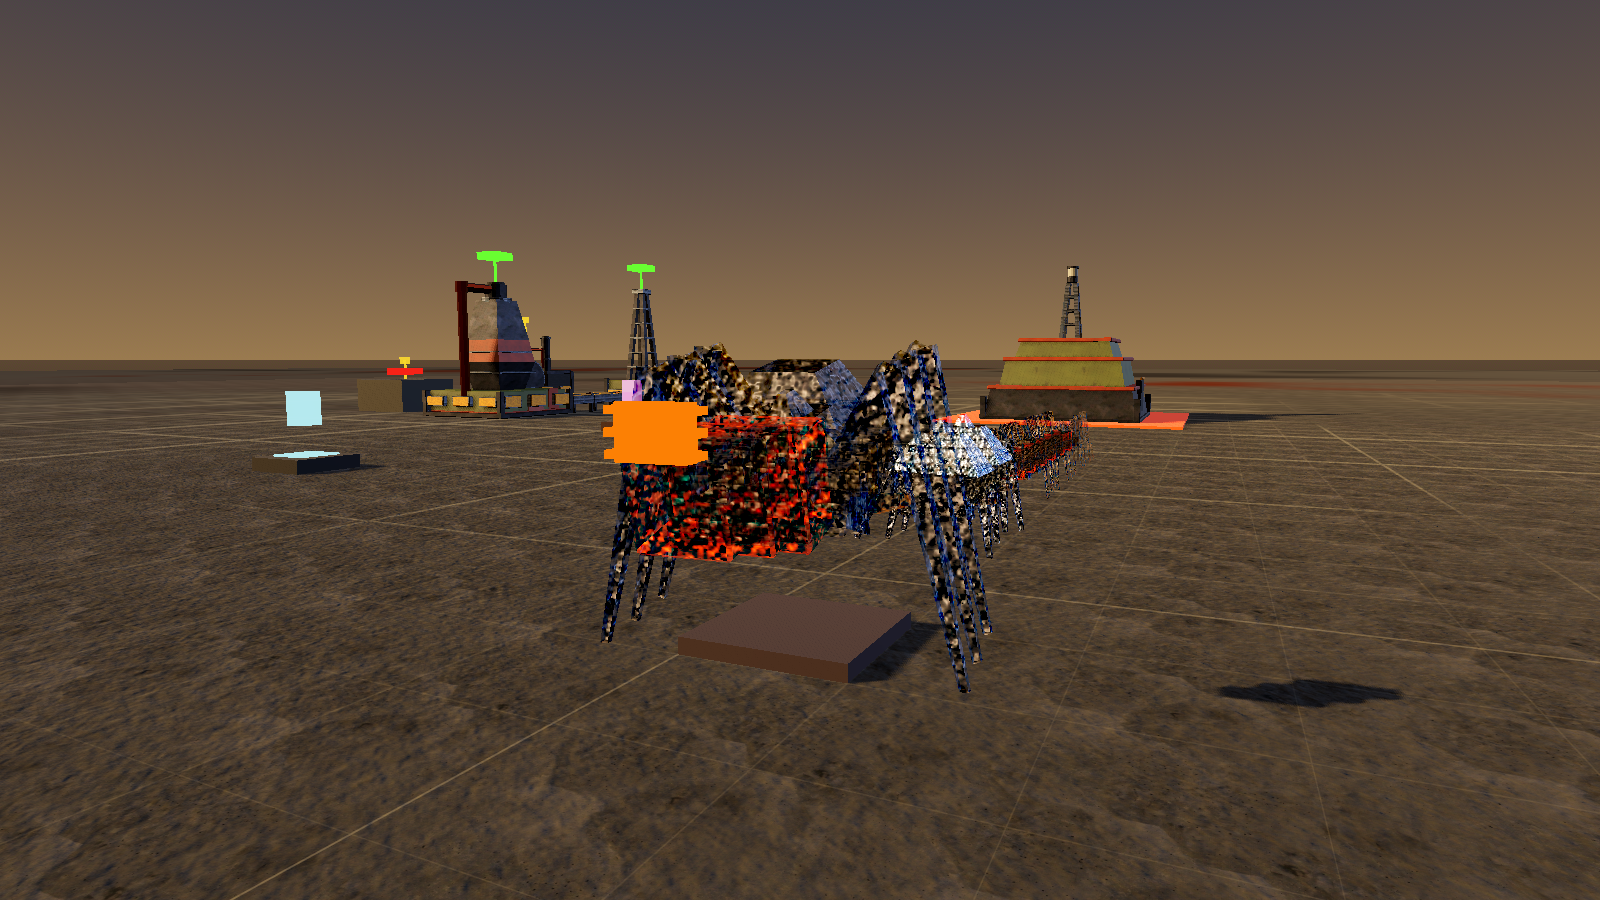
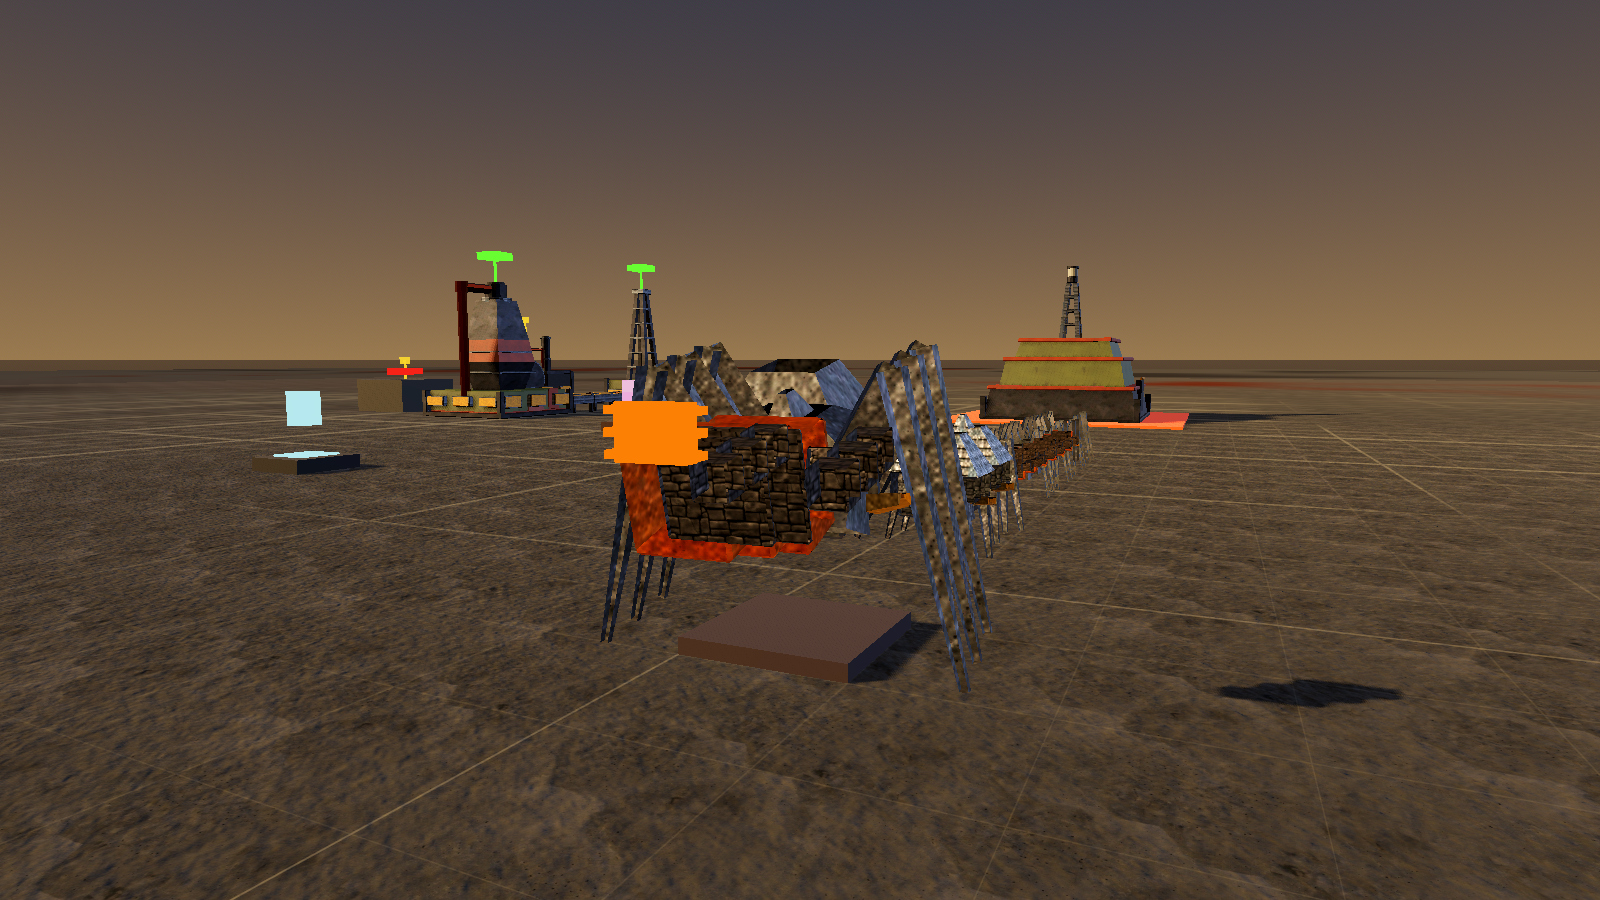
#79: the surface was broken and the histogram could not see it
Four faults behind the blue-and-white confetti, each isolated by rendering one
probe rather than by reasoning.

**It was `relief`, not `roughness_spread`.** The per-fragment roughness is the
obvious suspect on a metal; probed at 0, the confetti was unchanged. Probed at
`relief = 0` it vanished. On #75's smooth skinned characters the base normal
already varies across a face, so bending it a little bends it a little; a
generated body is flat-shaded faceted plate whose facet normal is constant, so the
field is the *only* variation there — and on a metal it swings the reflected
direction across a sky that is ochre at the horizon and blue at the zenith. 0.003,
bracketed at 0 / 0.003 / 0.012 by looking.

**The lift was applied in sRGB and clipped past a physical albedo.** It multiplied
the entry's sRGB colour before a `source_color` uniform, and that is a 2.4 power —
1.6 on CastIron's 0.52 became linear 0.66 against a Machine's 0.23, an effective
2.9x. On the Breaker's cold cast it took WeldedSteel to **linear 1.13 in blue**: a
surface returning more light than it receives, which on a metal is the colour of
the reflection. Applied in linear now, clamped at `ALBEDO_CEILING = 0.80`, and
bracketed at 1.0 / 1.8 / 2.6 — 1.8 reaches triage parity and 2.6 adds 0.002.

**The dielectric was re-tested on the fixed surface and is still wrong**, which was
worth checking because the speckle that helped convict it had another cause. It
[…]

Changed region(s): [[0.375, 0.3733, 0.6875, 0.7467]]

diff --git a/CLAUDE.md b/CLAUDE.md
@@ -685,7 +685,7 @@ assigns it. What is left is near white and says only *which kind* — warm for t
 for the Breaker, neutral for the boss — which is the readability cue #49's sizing was carrying
 alone.
 
-#### Chitin is a glossy dielectric, and the render rejected it anyway
+#### Chitin is a glossy dielectric, and two renders rejected it anyway
 
 **#79's ticket asked for #75's `metallic = 1` to be re-derived and measured rather than
 inherited, and it was — by shipping the other answer into a render and looking at it.** The
@@ -710,6 +710,16 @@ its own argument being superseded**, and the durable form is worth more than the
 anything in it that is not metal reads as a smear**. The dielectric is the honest physical
 answer and the wrong rendering answer, and that distinction is the whole of what this
 sub-section is for.
+
+**And it was tested a second time, on a surface that had been fixed in the meantime**, which
+is the right thing to do once the first rejection's evidence turns out to have had another
+cause — the white speckle that helped convict the dielectric was `relief` on faceted plate, not
+the material. Re-rendered with the relief and the lift corrected, it comes back **chalky**:
+pale grey plate with safety-orange abdomens, reading as painted concrete rather than as a
+shell. A dielectric's diffuse is flat and carries none of the sky's gradient, and the metal's
+reflection is exactly what gives plate its sheen. So metal stands on better evidence than it
+did, and the honest summary is that the ticket's physics is right about chitin and wrong about
+this renderer.
 
 `test_an_enemy_is_metal_because_the_light_in_this_world_is_tuned_for_metal` therefore survives
 a ticket that set out to reverse it, with the reason rewritten and a second clause added —
@@ -761,48 +771,76 @@ carries; the quiet-machine figure that file quotes is 94 ms and is the one to tr
 CPU rebuild, the skinning is in a vertex shader, and Xvfb is llvmpipe. The levers if it ever
 bites are the same two: `relief_fade_end`, and dropping the grime field's second octave.
 
-#### What the measurement says, and the one frame where it says the wrong thing
+#### Four things a second look found, and only one of them was what it looked like
 
-#75's own method, repeated: linear luminance over the pixels the change actually moved, which
-is the right denominator because a window drawn round an Enemy is mostly ground. Five frames,
-`bare` throughout, against the ground in the same picture.
+**The first pass measured a histogram and shipped a broken surface**, which is this file's own
+lesson arriving again: the medians were defensible and the Breakers were blue-and-white
+confetti. Four faults, and the order they were *found* in is not the order they were guessed
+in — each was isolated by rendering one probe.
 
-| frame | before, median | after, median | ground | after, mean | after, p90 |
-|---|---|---|---|---|---|
-| `triage` — thirty metres, the readability shot | 0.091 | **0.070** | 0.049 | 0.109 | 0.293 |
-| `pair` — six to twelve metres | 0.073 | **0.039** | 0.052 | 0.093 | 0.245 |
-| `boss` | 0.049 | **0.042** | 0.046 | 0.094 | 0.359 |
-| `crush` — from above, at the Nest | 0.032 | **0.012** | 0.042 | 0.046 | 0.143 |
-| `swarm` — six metres, **into the sun** | 0.055 | **0.006** | 0.047 | 0.039 | 0.074 |
+1. **It was `relief`, not the roughness spread.** The obvious suspect is #75's per-fragment
+   roughness, because a metal's reflection *is* its surface. Probed at `roughness_spread = 0`
+   and **the confetti was unchanged**; probed at `relief = 0` and it vanished completely. The
+   mechanism is the derived normal: on #75's smooth skinned characters the base normal already
+   varies across a face, so bending it a little bends it a little, where a generated body is
+   **flat-shaded faceted plate** whose facet normal is constant — so the field is the *only*
+   variation on that facet, and on a metal it swings the reflected direction across a sky that
+   is bright ochre at the horizon and dark blue at the zenith. Hence blue and white. `#79`
+   ships 0.003, a quarter of #75's 0.012, bracketed at 0, 0.003 and 0.012 by looking.
+2. **The lift was applied in the wrong space and was clipping past a physical albedo.** It
+   multiplied the palette entry's **sRGB** colour and handed the product to a `source_color`
+   uniform, and that conversion is a 2.4 power — so 1.6 on `CastIron`'s 0.52 became
+   `srgb_to_linear(0.83) = 0.66` against the 0.23 a Machine gets, an effective **2.9x**. On the
+   Breaker's cold cast it took `WeldedSteel` to a **linear albedo of 1.13 in blue**: over one,
+   a surface returning more light than it receives. It is applied in linear now and clamped at
+   `ALBEDO_CEILING = 0.80`, and bracketed at 1.0 / 1.8 / 2.6 — 1.8 reaches `triage` parity with
+   the cast and 2.6 adds 0.002, so 1.8.
+3. **The dielectric was re-tested on the fixed surface and is still wrong, for a new reason.**
+   That was the right thing to check: with the speckle traced to `relief` rather than to the
+   material, the first rejection might have been convicting the wrong thing. Rendered at
+   `metallic = 0` with the relief and the lift corrected, the bodies come back **chalky** —
+   pale grey plate with safety-orange abdomens, reading as painted concrete. A dielectric's
+   diffuse is flat, so it carries none of the sky's gradient; the metal's reflection is what
+   gives plate its sheen. Metal stands, and now for a better reason than "the dielectric was
+   speckled".
+4. **The texture density is fine, and that was measured rather than argued.** Texels per real
+   metre, #65's own figure: **Crawler 1455, Breaker 1058, Siege Hulk 727, against a Machine's
+   931**. So the Crawler is 1.56x a Machine and the boss is *below* one — not the order of
+   magnitude it was suspected of, and `filter_linear_mipmap` handles the minification anyway.
+   What has no mip chain is the **procedural** field, which is why (1) was the fault and this
+   was not.
 
-**The honest reading is that the median went down and the mean and p90 went up**, which is a
-body with more contrast in it rather than a brighter or a darker one: the mean rises on four
-of the five frames and the p90 nearly doubles, because a faceted metal plate under a low sun
-has real highlights where a graded swatch had none.
+**And a structural fix that (1) uncovered.** `relief` fades over 14-34 m because a procedural
+field past the range where one feature is under a pixel stops being detail and becomes noise.
+`grime_depth` and `roughness_spread` are the same field and **did not fade** — #75 computed
+`near` and applied it to one of the three. Both fade now, which is #75's own argument finished
+rather than a new idea.
 
-**At the range the readability gate is about, this is the number #75 was reaching for and did
-not get.** `triage` puts the median Enemy pixel at **1.43 times the ground it is standing on**;
-#75 measured 0.021 against 0.046, which is 0.46 times. An Enemy is no longer darker than the
-floor at the distance a player triages a Wave from.
+#### What the measurement says, and the two frames where it says the wrong thing
 
-**And `swarm` says the opposite, which is worth stating rather than burying.** That preset
-stands six metres off with the sun behind the Wave, so what it frames is backlit plate — and a
-dark metal body backlit is a silhouette, at 0.006 against a ground of 0.047. The cast managed
-0.055 there because a graded bone atlas is pale enough to carry ambient on its own. Some of
-that is the point (a chitin bug between you and the sun *should* be a shape) and some of it is
-a real loss, and nothing here can tell you which half is which — `ENEMY_LIFT` is the lever and
-it was bracketed on `triage` rather than on `swarm`, deliberately, because thirty metres is
-where a player decides what a Wave is.
+#75's method: linear luminance over the pixels the change moved, against the ground in the
+same picture.
 
-**`ENEMY_LIFT` is the one number in this that is not a palette entry, and it is a measurement.**
-At the entries' own levels the median came to **0.000** on `swarm` and 0.013 on `triage` — not a
-dark Enemy, a hole in the floor, which is #75's finding reproduced from a completely different
-direction. The palette is tuned for a Machine: six metres of it, standing still, with big
-horizontal faces a 23-degree sun lands on. An Enemy is a 1.6 m body of mostly vertical plate,
-usually between the sun and the player. So the entry supplies the *hue* and the lift supplies
-the level — which is the one job a multiply can honestly do, because there is no ratio to fight
-here: a part is **assigned** its entry rather than having one inferred from a pixel, which is
-exactly the thing #75 could not say about a tint over an atlas.
+| frame | before, median | after, median | ground | after / ground |
+|---|---|---|---|---|
+| `triage` — thirty metres, the readability shot | 0.090 | **0.088** | 0.049 | **1.82x** |
+| `boss` | 0.049 | **0.048** | 0.046 | 1.03x |
+| `pair` — six to twelve metres | 0.072 | 0.032 | 0.052 | 0.60x |
+| `crush` — from above, in the Nest's shadow | 0.032 | 0.013 | 0.042 | 0.31x |
+| `swarm` — six metres, **into the sun** | 0.055 | **0.004** | 0.047 | **0.09x** |
+
+**At the two vantages that decide whether a Wave is readable the bodies are now at parity with
+the cast** — `triage` within 0.002 of it and `boss` within 0.001 — and `triage` sits at 1.82
+times the ground where #75 left an Enemy at 0.46 times.
+
+**`swarm` and `crush` are still below the ground and that is said plainly rather than
+defended.** `swarm` is a *ninth* of the floor, which is worse than the fifth #75 called "not a
+dark Enemy, it is a hole in the floor". Both are the cases where the body is between the camera
+and the light or inside the Nest's shadow, and neither is a lift problem: bracketed at 1.0, 1.8
+and 2.6, `swarm`'s median moved 0.000 → 0.0041 → 0.0042 and then stopped, because a backlit
+metal in shadow has almost nothing to return whatever its albedo says. Buying it with more lift
+was offered and refused; what it actually wants is either a fill light reaching the Enemies or
+an emissive cue on a kind, and both are their own ticket.
 
 #### What the pictures settle, and what they do not
 
